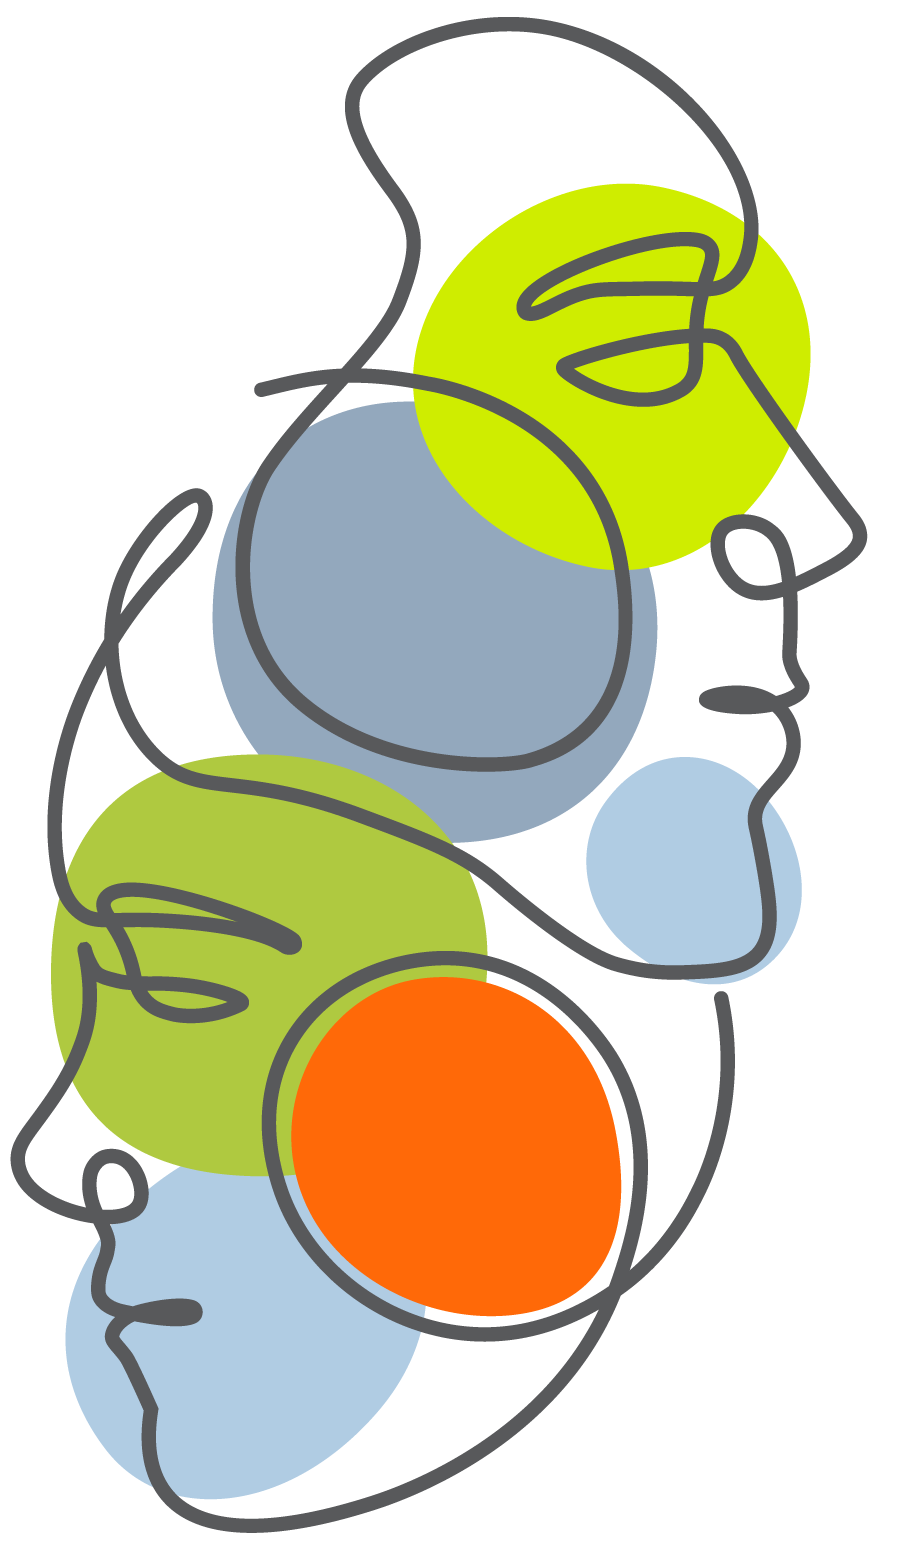
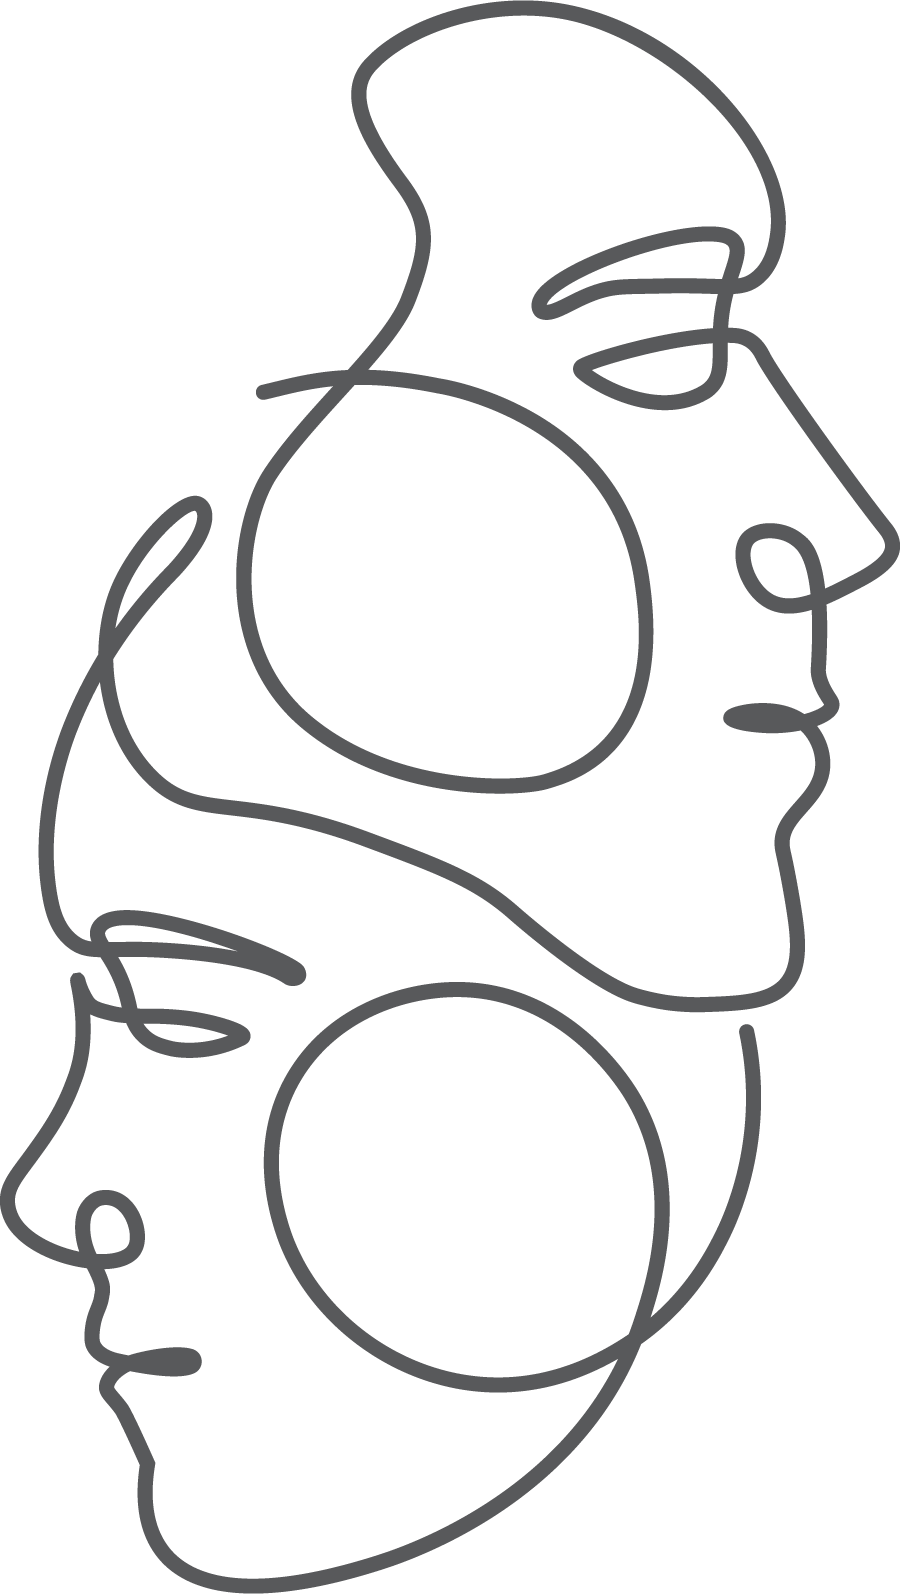
Reduce visual noise in hero section by adjusting image opacity and mask
Update hero section styling by reducing the opacity of the background image and modifying the gradient mask to decrease visual clutter.

Replit-Commit-Author: Agent
Replit-Commit-Session-Id: fc01c8a3-9924-4bf2-be2f-b9e30910e329
Replit-Commit-Checkpoint-Type: full_checkpoint
Replit-Commit-Event-Id: 2b3c5f82-f6af-4e50-a372-611a3fece81e
Replit-Commit-Screenshot-Url: https://storage.googleapis.com/screenshot-production-us-central1/3c5ae835-1dbb-4841-9597-2070b721a8fa/fc01c8a3-9924-4bf2-be2f-b9e30910e329/8zkwY5g
Replit-Helium-Checkpoint-Created: true

diff --git a/artifacts/my-impact/src/pages/Intro.tsx b/artifacts/my-impact/src/pages/Intro.tsx
@@ -294,9 +294,9 @@ export default function Intro() {
         {/* Faces image — blended into right side of hero */}
         <div style={{
           position: "absolute", top: 0, right: 0, bottom: 0,
-          width: "55%", zIndex: 1, pointerEvents: "none",
-          maskImage: "linear-gradient(to right, transparent 0%, rgba(0,0,0,0.4) 30%, rgba(0,0,0,0.7) 100%)",
-          WebkitMaskImage: "linear-gradient(to right, transparent 0%, rgba(0,0,0,0.4) 30%, rgba(0,0,0,0.7) 100%)",
+          width: "45%", zIndex: 1, pointerEvents: "none",
+          maskImage: "linear-gradient(to right, transparent 0%, rgba(0,0,0,0.35) 40%, rgba(0,0,0,0.55) 100%)",
+          WebkitMaskImage: "linear-gradient(to right, transparent 0%, rgba(0,0,0,0.35) 40%, rgba(0,0,0,0.55) 100%)",
         }}>
           <img
             src={`${import.meta.env.BASE_URL}images/faces.png`}
@@ -304,9 +304,8 @@ export default function Intro() {
             aria-hidden="true"
             style={{
               width: "100%", height: "100%",
-              objectFit: "cover", objectPosition: "center top",
-              opacity: 0.18,
-              mixBlendMode: "luminosity",
+              objectFit: "contain", objectPosition: "right center",
+              opacity: 0.10,
             }}
           />
         </div>
